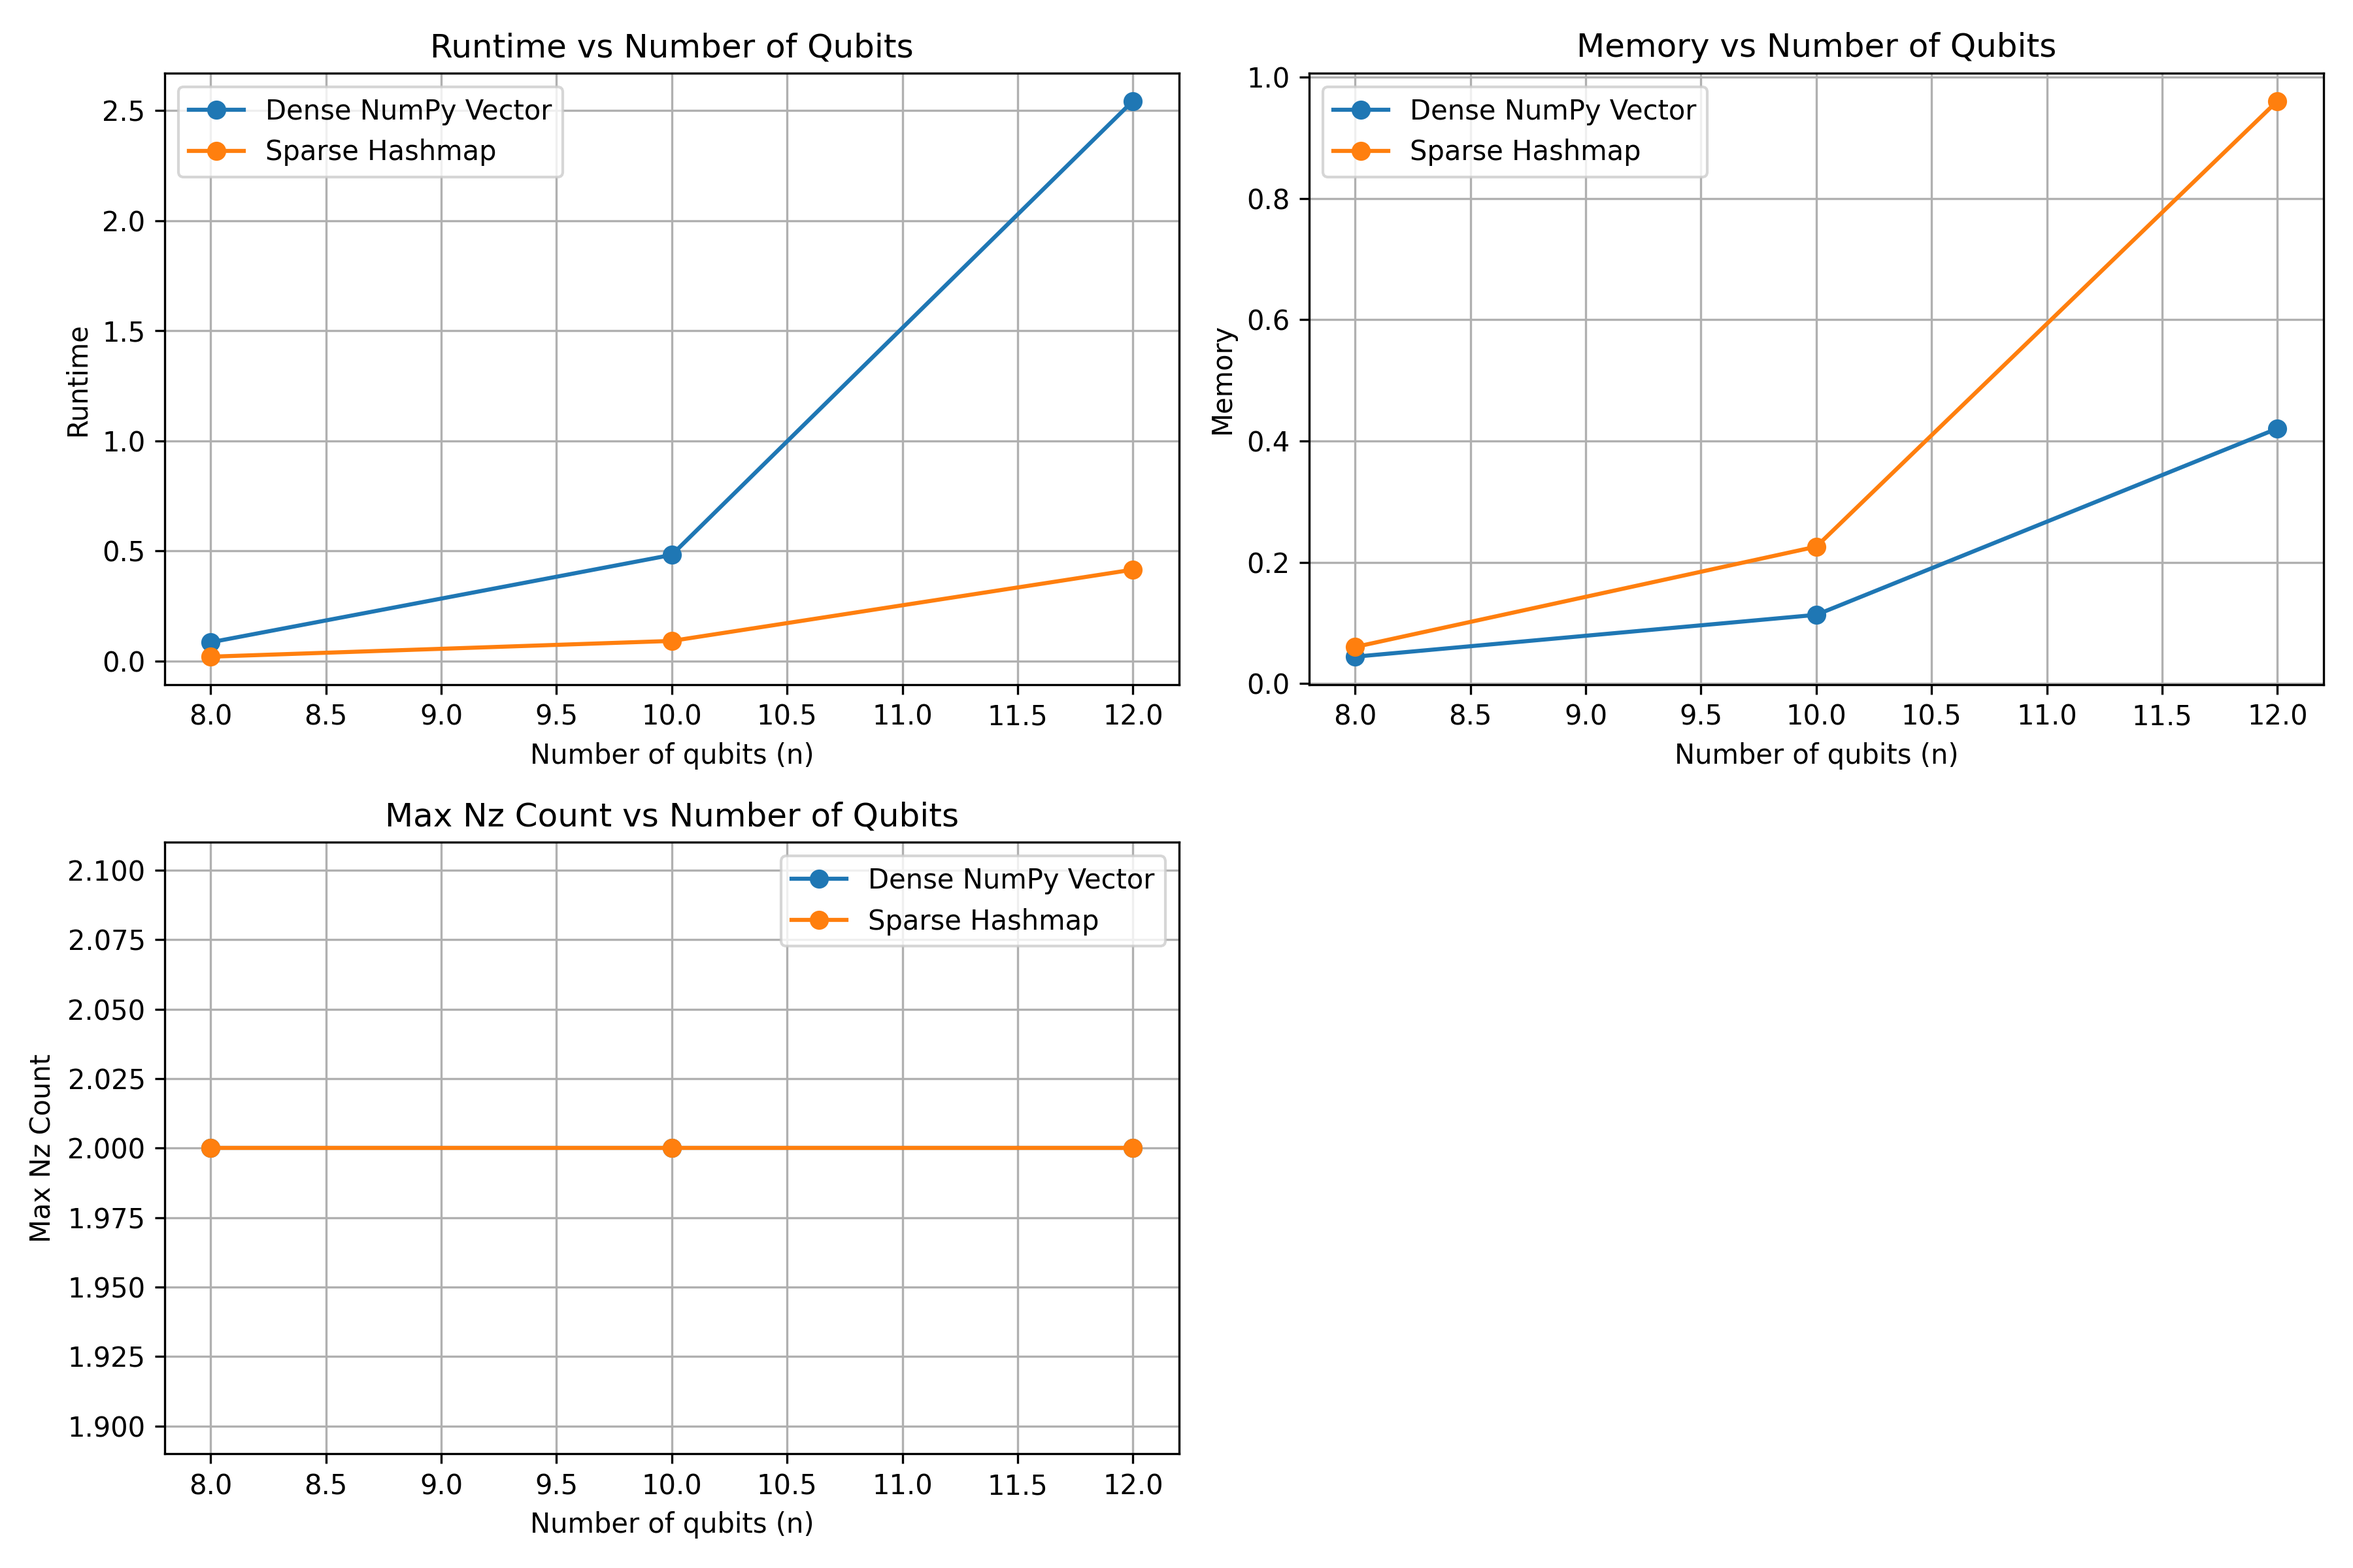
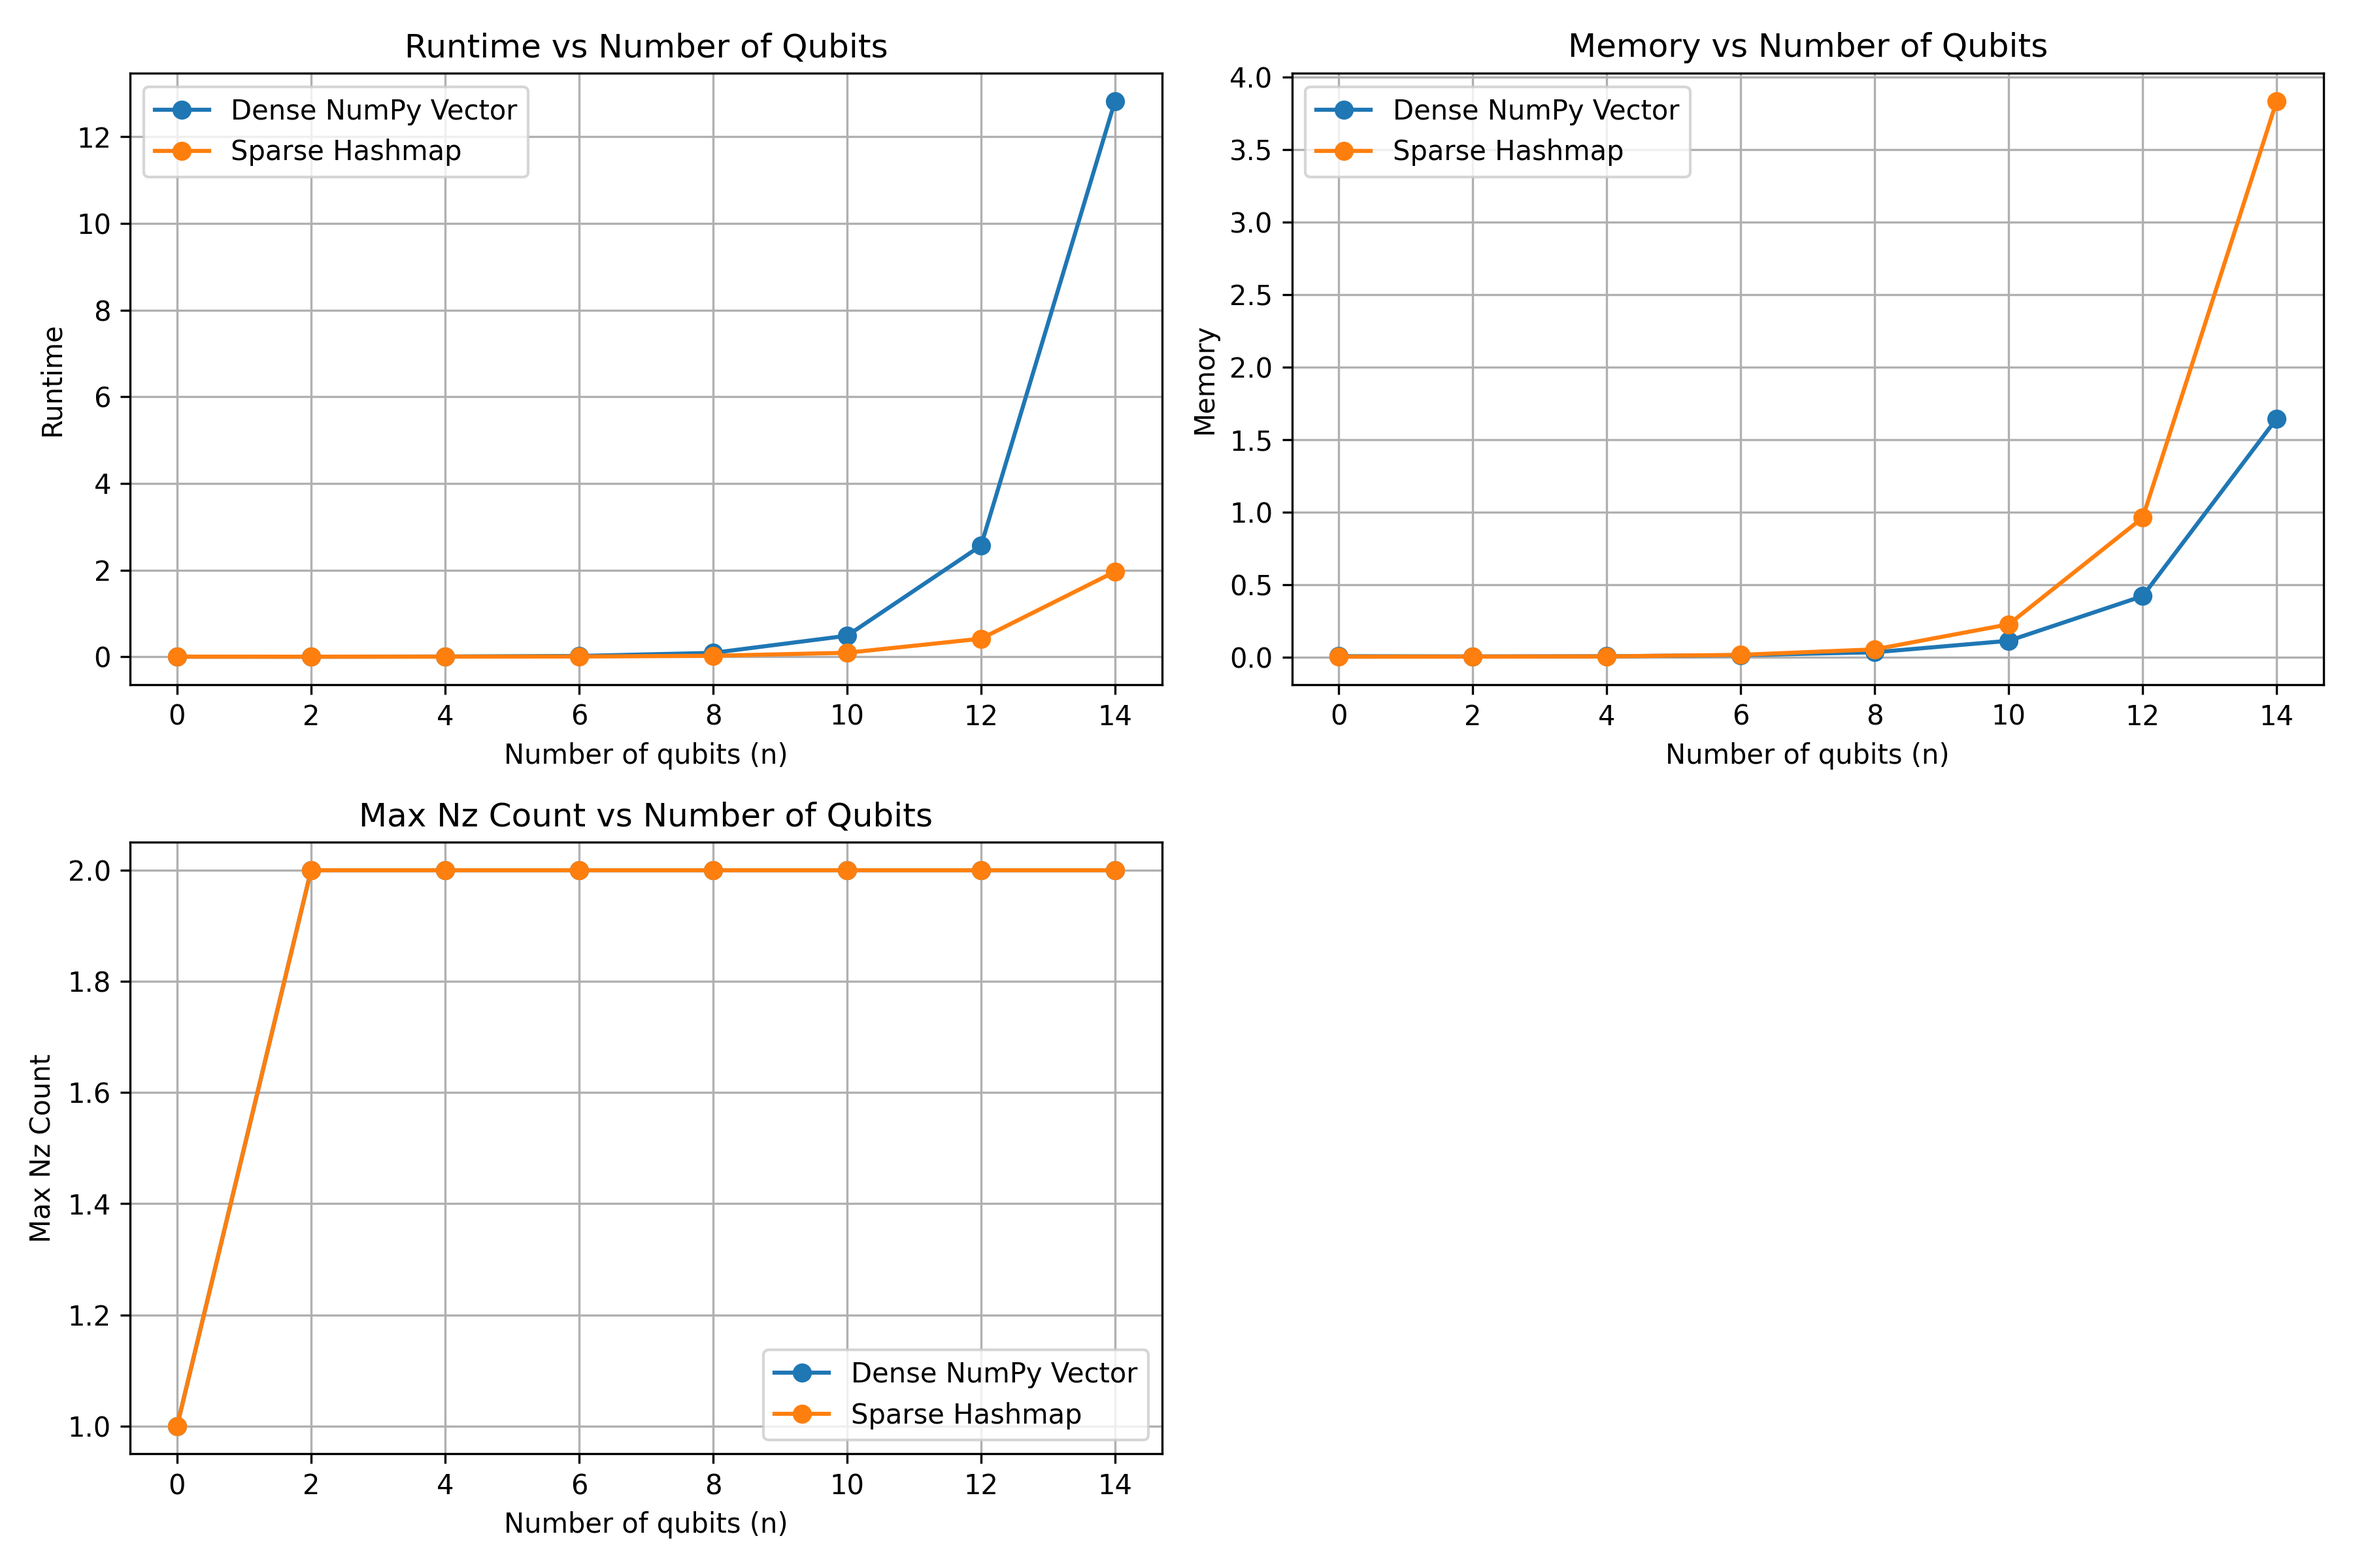
new results

diff --git a/Project/QFT.py b/Project/QFT.py
@@ -57,6 +57,7 @@ def max_nonzero_count(states):
 def Evaluate_on_QFT(Sim_class,n=[8,10,12]):
     results= {m:{"runtime":None, "memory":None, "max_nz_count":None} for m in n}
     for m in n:
+        print(Sim_class,m)
         tracemalloc.start()
         t0 = time.time()
         sim = run_qft(Sim_class, m)
@@ -70,8 +71,6 @@ def Evaluate_on_QFT(Sim_class,n=[8,10,12]):
     return results
 
 
-res_dense = Evaluate_on_QFT(DenseQuantumSimulator)
-res_sparse = Evaluate_on_QFT(SparseQuantumSimulator)
 
 
 import os
@@ -127,10 +126,16 @@ def compare_sims(results_dict, save_dir="plots", filename="simulator_comparison.
     plt.show()
 
 
-print("Dense:", res_dense)
-print("Sparse:", res_sparse)
+def main():
+    num_qubits = [i*2 for i in range(8)]
+    res_dense = Evaluate_on_QFT(DenseQuantumSimulator,n=num_qubits)
+    res_sparse = Evaluate_on_QFT(SparseQuantumSimulator,n=num_qubits)
+    print("Dense:", res_dense)
+    print("Sparse:", res_sparse)
+    compare_sims({
+        "Dense NumPy Vector": res_dense,
+        "Sparse Hashmap": res_sparse
+    })
 
-compare_sims({
-    "Dense NumPy Vector": res_dense,
-    "Sparse Hashmap": res_sparse
-})
+if __name__=="__main__":
+    main()
